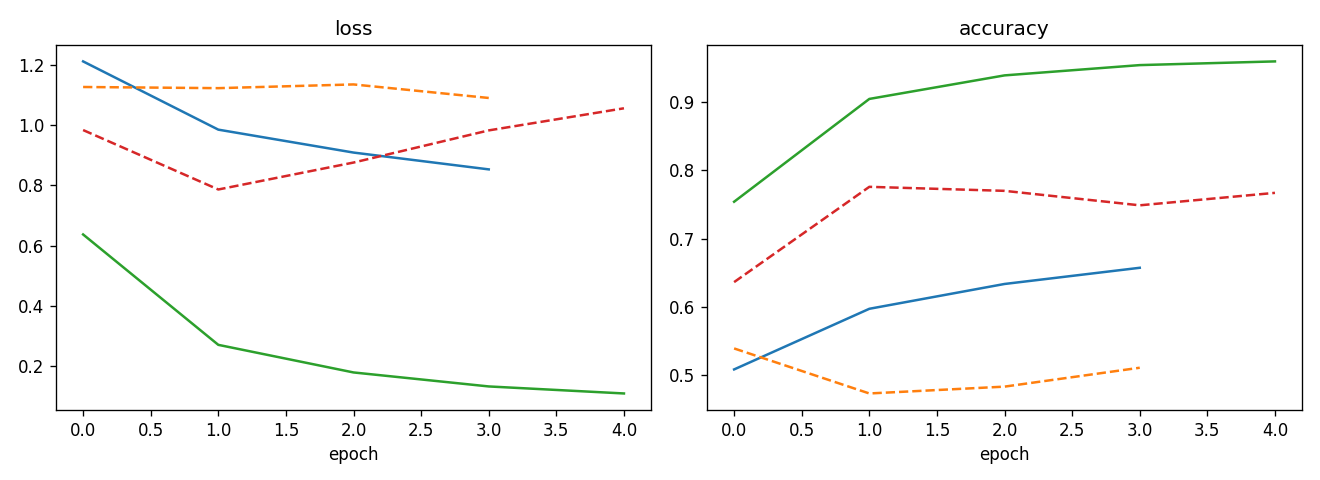
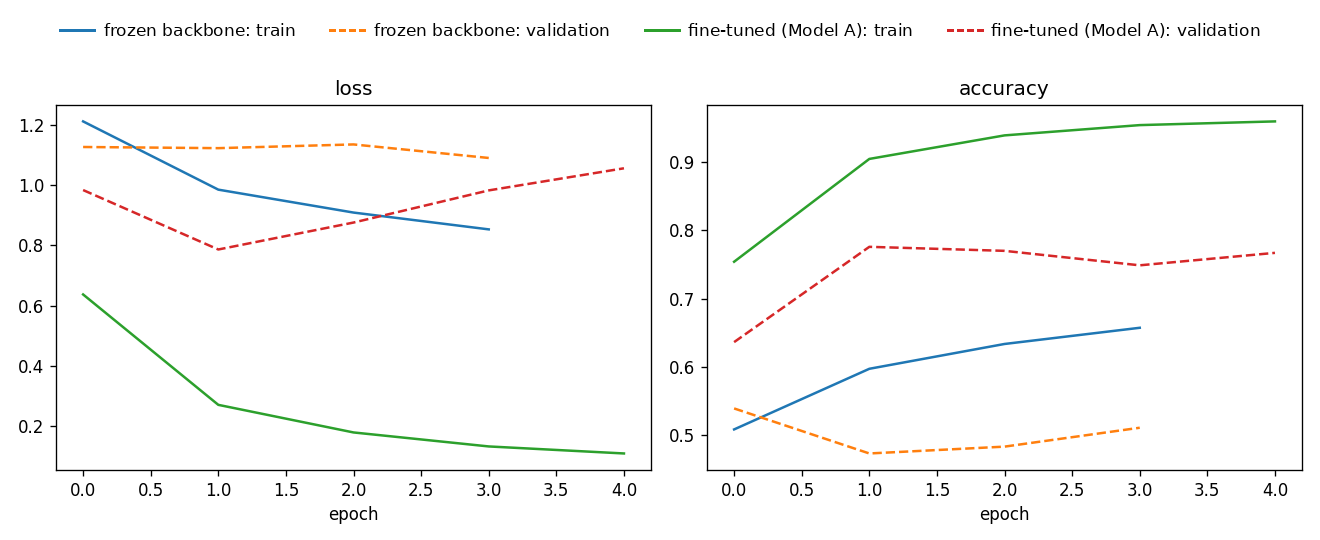
README: results and testing (Model A, Gemini, thresholds); legend on Model A curves (#87)
* README: results and testing section (Model A, Gemini base vs tuned, thresholds); fix curve legends in the notebook

* Model A curves: add a legend to run02_curves.png

diff --git a/README.md b/README.md
@@ -2,10 +2,68 @@
 
 Model development code for **DriveAware** (CS663 Project 2): data preparation, Model A training,
 Gemini fine-tuning, evaluation and system-test matching. App code lives in
-[`driveaware-app`](../driveaware-app).
+[`driveaware-app`](https://github.com/PallikalaS/driveaware-app).
 
 > Images, videos and model binaries never go to GitHub — they live in the shared Drive folder
 > `DriveAware/` (and the GCS bucket for tuning). Commit CSVs, notebooks (with outputs) and results.
+
+## Results and testing
+
+### Model A: driver-activity classifier (fine-tuned MobileNetV3-Small)
+Test set = **two team members never used in training** (3,516 frames); validation = the training subjects' held-back
+clips. Notebook with outputs: [`notebooks/runs/model_a_run02.ipynb`](notebooks/runs/model_a_run02.ipynb).
+
+| Model (same test set) | Test accuracy | Test macro-F1 | Val accuracy |
+|---|---|---|---|
+| CLIP ViT-B/32 zero-shot (pretrained, no training) | 0.547 | 0.457 | 0.540 |
+| Frozen backbone (only the last layer trained) | 0.325 | 0.218 | 0.536 |
+| **Fully fine-tuned (Model A, in the app)** | **0.401** | **0.279** | **0.773** |
+
+Run history ([`model_a_runs.csv`](results/model_a/model_a_runs.csv)): run01 (State Farm only) 0.260 → **run02
+(+ our team's clips) 0.401** test accuracy. Per class: [`run02_finetuned_per_class.csv`](results/model_a/run02_finetuned_per_class.csv)
+(drinking F1 0.50, face touch 0.48, phone use 0.40; smoking and safe driving are the hardest). Data:
+[`labels.csv`](results/model_a/labels.csv), [`class_counts.csv`](results/model_a/class_counts.csv).
+
+**Training and validation loss and accuracy curves** (frozen backbone and fine-tuned; early stopping on validation accuracy):
+
+![Model A loss and accuracy curves](results/model_a/run02_curves.png)
+
+| Confusion matrix (5 app classes) | Confusion matrix (10 subclasses) |
+|---|---|
+| ![](results/model_a/run02_confusion.png) | ![](results/model_a/run02_confusion_subclass.png) |
+
+The gap between validation (0.77) and test (0.40) is the main finding: the model fits the people it was trained on
+much better than new drivers (only two team members could be used for training, and the public State Farm images
+come from a different camera angle). In the app, a 2-second / 70 %-of-frames rule and Gemini's re-check on the
+keyframe limit the effect of single wrong predictions.
+
+### Model B: fine-tuned Gemini 3.5 Flash (event verifier and driver message)
+398 hand-labeled events (291 train / 56 val / 51 test; test events only from the held-out drivers), evaluated with
+[`eval/gemini_eval.py`](eval/gemini_eval.py):
+
+| Metric (51 test events) | Base Gemini 3.5 Flash | Tuned v1 (Nov 15) | **Tuned v2 (deployed)** |
+|---|---|---|---|
+| Event accuracy | 0.765 | 0.902 | **0.843** |
+| Event macro-F1 | 0.690 | 0.833 | **0.769** |
+| Severity accuracy | 0.745 | 0.961 | **0.922** |
+| Action accuracy | 0.843 | 0.863 | **0.843** |
+| Follows the labeling guide | 0.686 | 0.902 | **0.882** |
+| Valid JSON | 1.000 | 1.000 | **1.000** |
+| False-alarm precision / recall | 1.000 / 0.667 | 1.000 / 0.667 | **0.889 / 0.667** |
+| Measured drowsiness signal dismissed (authority violations) | 0 | 0 | **0** |
+| Latency median / 95th percentile | 1.9 s / 2.4 s | 2.5 s / 3.8 s | **2.9 s / 7.1 s** |
+
+Tuned v1 was deleted by Google when our course cloud credit ran out on Nov 18; v2 was re-tuned on the same data and is
+the model used in the app and the system tests. The two runs show normal run-to-run variation of fine-tuning.
+Training loss curves are not shown: the Vertex AI console does not display them for tuning jobs in the `us`
+multi-region, the only region where Gemini 3.5 Flash can be tuned.
+
+### Detection thresholds (tuned on validation clips only)
+[`results/tuning/thresholds.csv`](results/tuning/thresholds.csv): start vs. final values. Tuning on V01–V04 raised yawn
+recall from 0.2 to 0.8, macro-F1 from 0.49 to 0.69, and cut false alarms from 11 to 7.
+
+### Full-system tests
+_Results of the 8 scripted sessions with the held-out drivers (`eval/match_events.py`) are added in `results/system/`._
 
 ## Pipeline end to end
 
